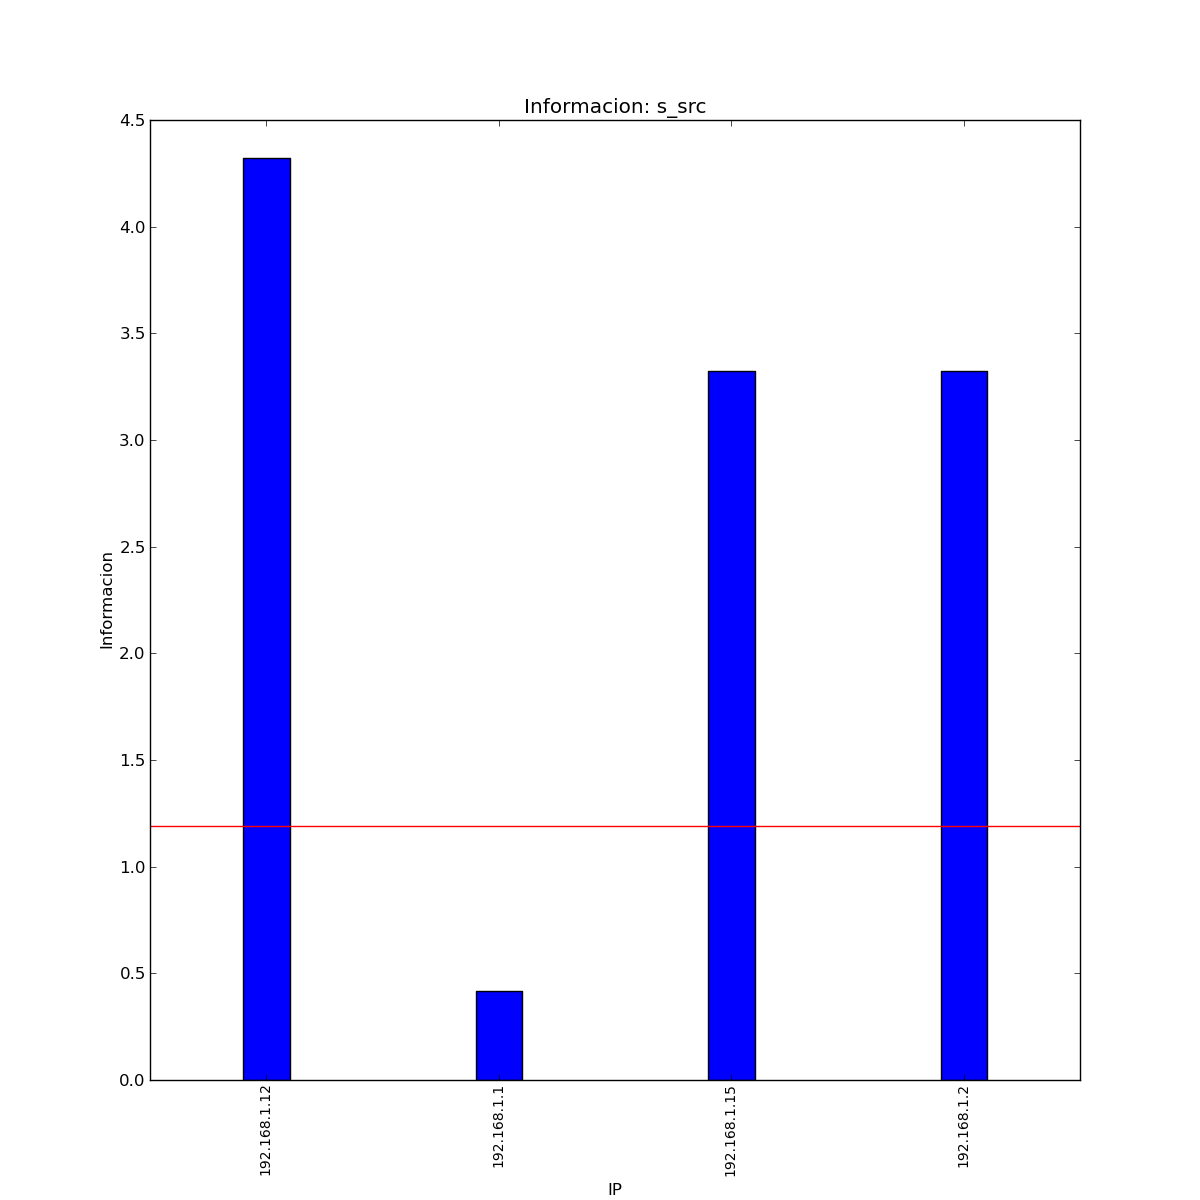
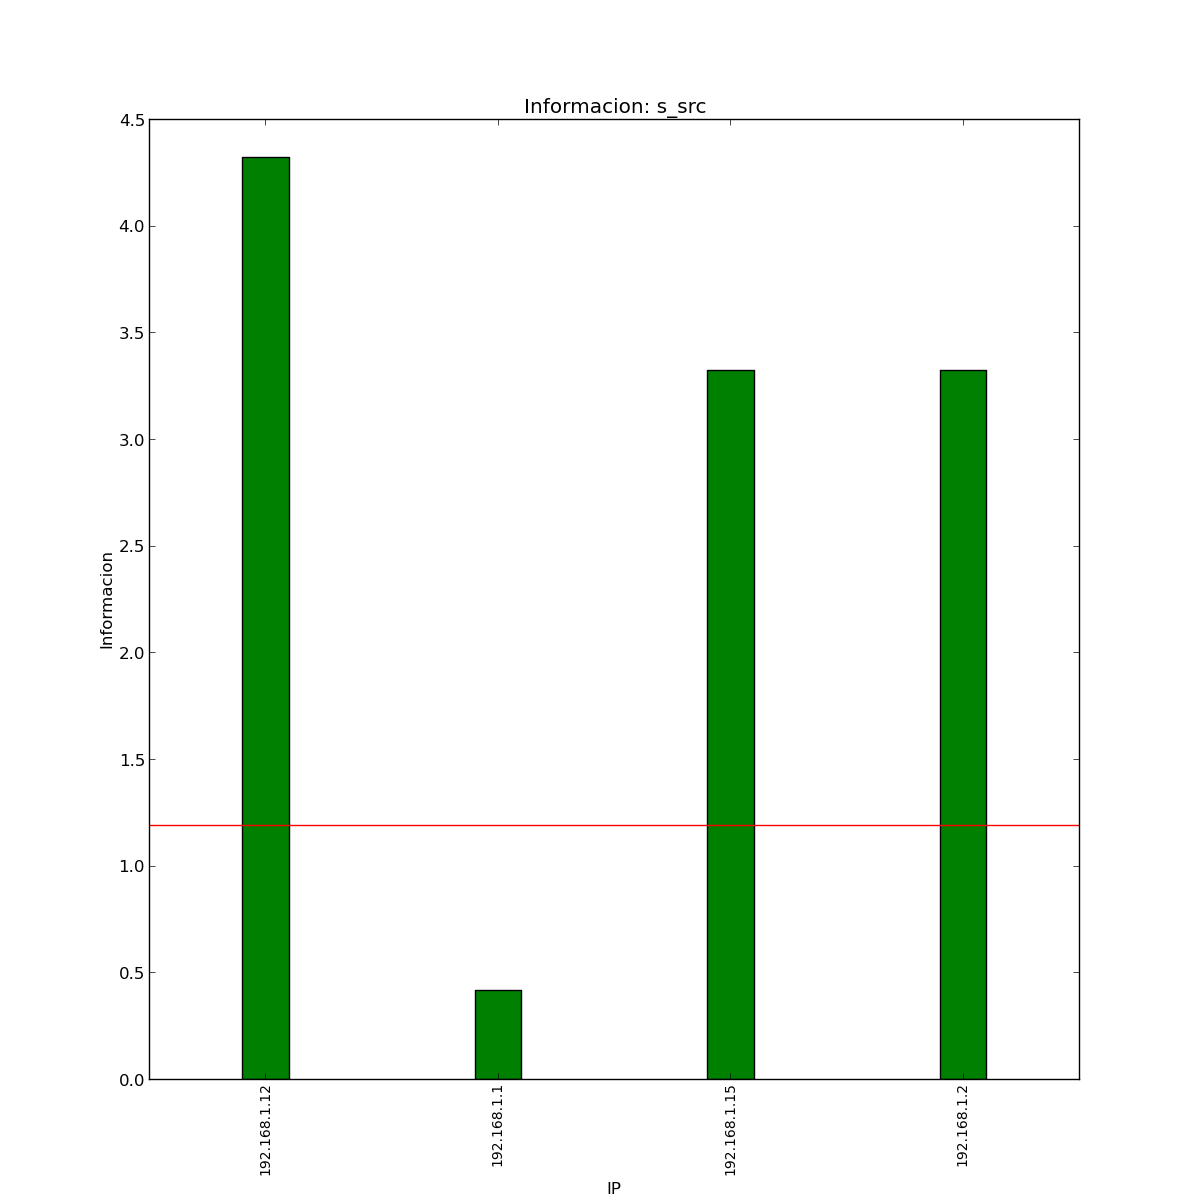
nuevos graficos y cambio de color

Changed region(s): [[0.0925, 0.0925, 0.925, 0.9867], [0.4933, 0.9867, 0.5242, 1.0]]

diff --git a/arp_analysis_tool.py b/arp_analysis_tool.py
@@ -7,7 +7,7 @@ import os;
 import re;
 import argparse;
 import matplotlib.pyplot as plt;
-import pydot;
+#import pydot;
 
 def main():
   args = parse_args()
@@ -21,7 +21,7 @@ def main():
   print_indicators('s_dst', hist, info, entropy)
   plot_histogram('s_dst', hist, basename)
   plot_info('s_dst', info, entropy, basename)
-  plot_network(s_src, s_dst, basename)
+  #plot_network(s_src, s_dst, basename)
 
 def parse_args():
   parser = argparse.ArgumentParser(description='ARP packet analysis.')
@@ -73,7 +73,7 @@ def plot_info(source, hist, entropy, basename):
   labels = hist.keys()
   f = plt.figure('info_{source}'.format(source=source), [12, 12])
   plt.xlim([-2, x[-1] + 2])
-  plt.bar(x, y, align='center')
+  plt.bar(x, y, align='center',color='g')
   plt.axhline(entropy, color='r',label='entropia')
   plt.xticks(x, labels, size='small',rotation='vertical')
   plt.title('Informacion: {source}'.format(source=source))
